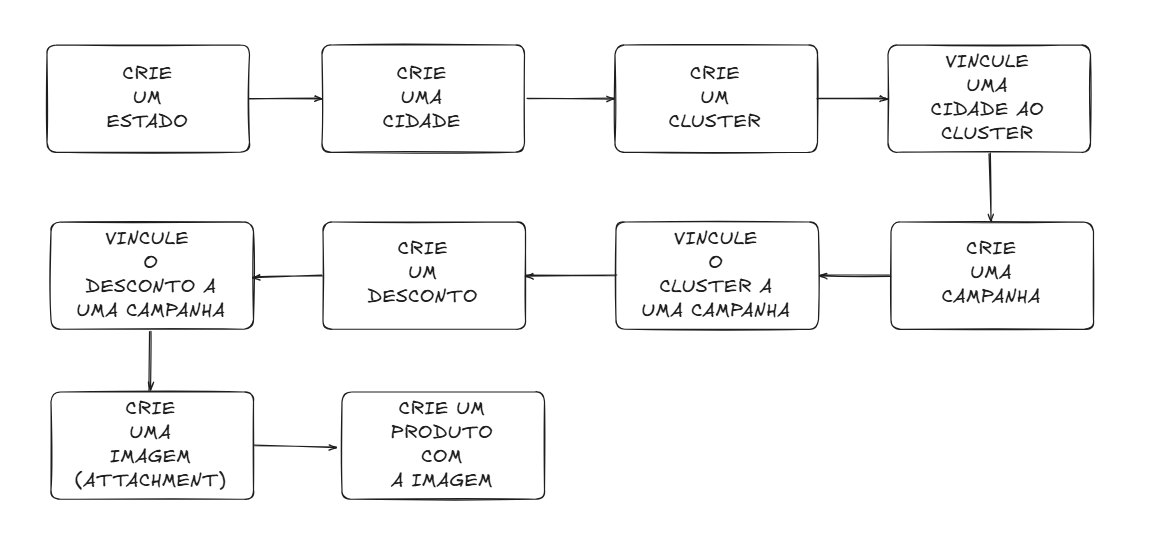
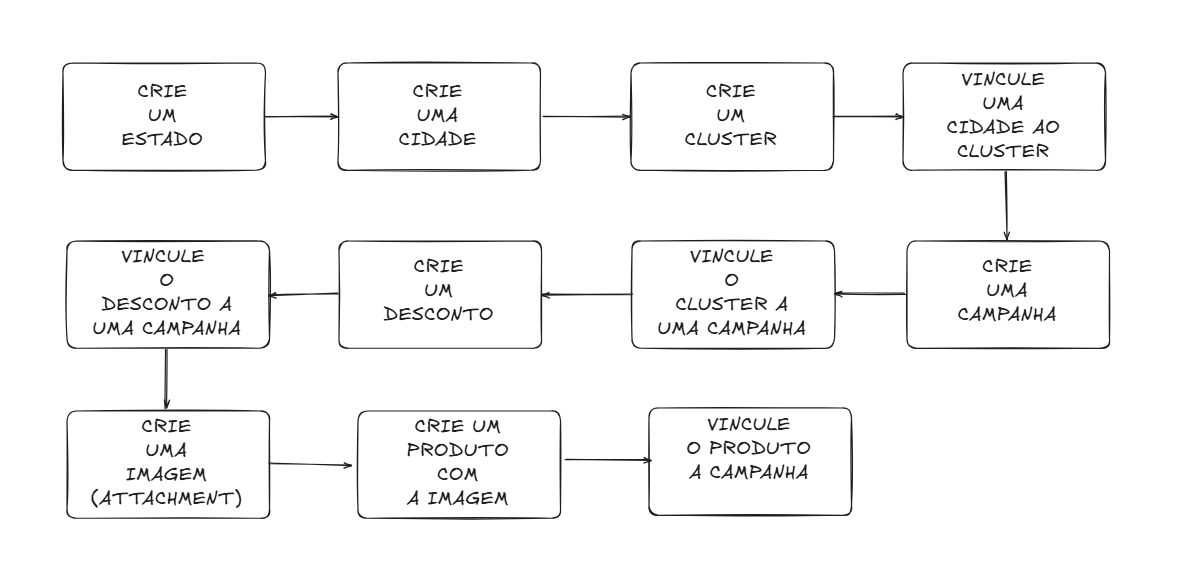
feat: calculating products price

diff --git a/app/Models/Product.php b/app/Models/Product.php
@@ -28,6 +28,10 @@ class Product extends Model
         'is_active' => 'boolean',
     ];
 
+    protected $appends = [
+        'final_price',
+    ];
+
     public function attachments(): BelongsToMany
     {
         return $this
@@ -39,4 +43,46 @@ class Product extends Model
     {
         return $query->where('name', 'LIKE', '%' . $name . '%');
     }
+
+    public function campaigns(): BelongsToMany
+    {
+        return $this
+            ->belongsToMany(Campaign::class, 'campaign_product_pivot')
+            ->withTimestamps();
+    }
+
+    public function getFinalPriceAttribute(): float
+    {
+        $campaigns = $this->relationLoaded('campaigns')
+            ? $this->campaigns
+            : $this->campaigns()->with('discounts')->get();
+
+        if ($campaigns->isEmpty()) {
+            return $this->price;
+        }
+
+        $discounts = $campaigns->flatMap(fn ($campaign) => $campaign->discounts);
+
+        if ($discounts->isEmpty()) {
+            return $this->price;
+        }
+
+        $price = $this->price;
+
+        foreach ($discounts as $discount) {
+            if ($discount->percentage) {
+                $price -= ($price * ($discount->percentage / 100));
+            }
+        }
+
+        foreach ($discounts as $discount) {
+            if ($discount->value) {
+                $price -= $discount->value;
+            }
+        }
+
+        return max(0, $price);
+    }
+
+
 }

diff --git a/tests/Feature/Api/Product/DeleteProductTest.php b/tests/Feature/Api/Product/DeleteProductTest.php
@@ -11,7 +11,9 @@ test('it should be able to delete a product', function () {
 
     $response->assertStatus(Response::HTTP_NO_CONTENT);
 
-    $this->assertDatabaseMissing($model->getTable(), $product->toArray());
+    $product = $product->toarray();
+    unset($product['final_price']);
+    $this->assertDatabaseMissing($model->getTable(), $product);
 });
 
 test('it should return not found when trying to delete a product that does not exists', function () {
@@ -25,5 +27,8 @@ test('it should return not found when trying to delete a product that does not e
         ->assertStatus(Response::HTTP_NOT_FOUND)
         ->assertJsonPath('message', 'No query results for model [App\Models\Product] -1');
 
-    $this->assertDatabaseHas($model->getTable(), $product->toArray());
+    $product = $product->toarray();
+    unset($product['final_price']);
+
+    $this->assertDatabaseHas($model->getTable(), $product);
 });

diff --git a/tests/Feature/Api/Product/CreateProductTest.php b/tests/Feature/Api/Product/CreateProductTest.php
@@ -15,8 +15,10 @@ test('it should be able to create a product', function () {
 
     $response
         ->assertStatus(Response::HTTP_CREATED)
-        ->assertJsonStructure($model->getFillable());
+        ->assertJsonStructure(['id', 'name', 'description', 'price']);
 
+
+    unset($payload['final_price']);
     $this->assertDatabaseHas($model->getTable(), $payload);
     $this->assertDatabaseCount($model->getTable(), 1);
 });

diff --git a/database/migrations/2025_02_14_194045_create_campaign_product_pivot.php b/database/migrations/2025_02_14_194045_create_campaign_product_pivot.php
@@ -6,8 +6,7 @@ use Illuminate\Database\Migrations\Migration;
 use Illuminate\Database\Schema\Blueprint;
 use Illuminate\Support\Facades\Schema;
 
-return new class extends Migration
-{
+return new class () extends Migration {
     /**
      * Run the migrations.
      */

diff --git a/tests/Feature/Api/Product/UpdateProductTest.php b/tests/Feature/Api/Product/UpdateProductTest.php
@@ -13,6 +13,7 @@ test('it should be able to update a product', function () {
 
     $response->assertStatus(Response::HTTP_NO_CONTENT);
 
+    unset($payload['final_price']);
     $this->assertDatabaseHas($model->getTable(), ['id' => $product->id, ...$payload]);
 });
 

diff --git a/app/Models/Campaign.php b/app/Models/Campaign.php
@@ -25,6 +25,10 @@ class Campaign extends Model
         'is_active' => 'boolean',
     ];
 
+    protected $with = [
+        'products',
+    ];
+
     public function clusters(): BelongsToMany
     {
         return $this
